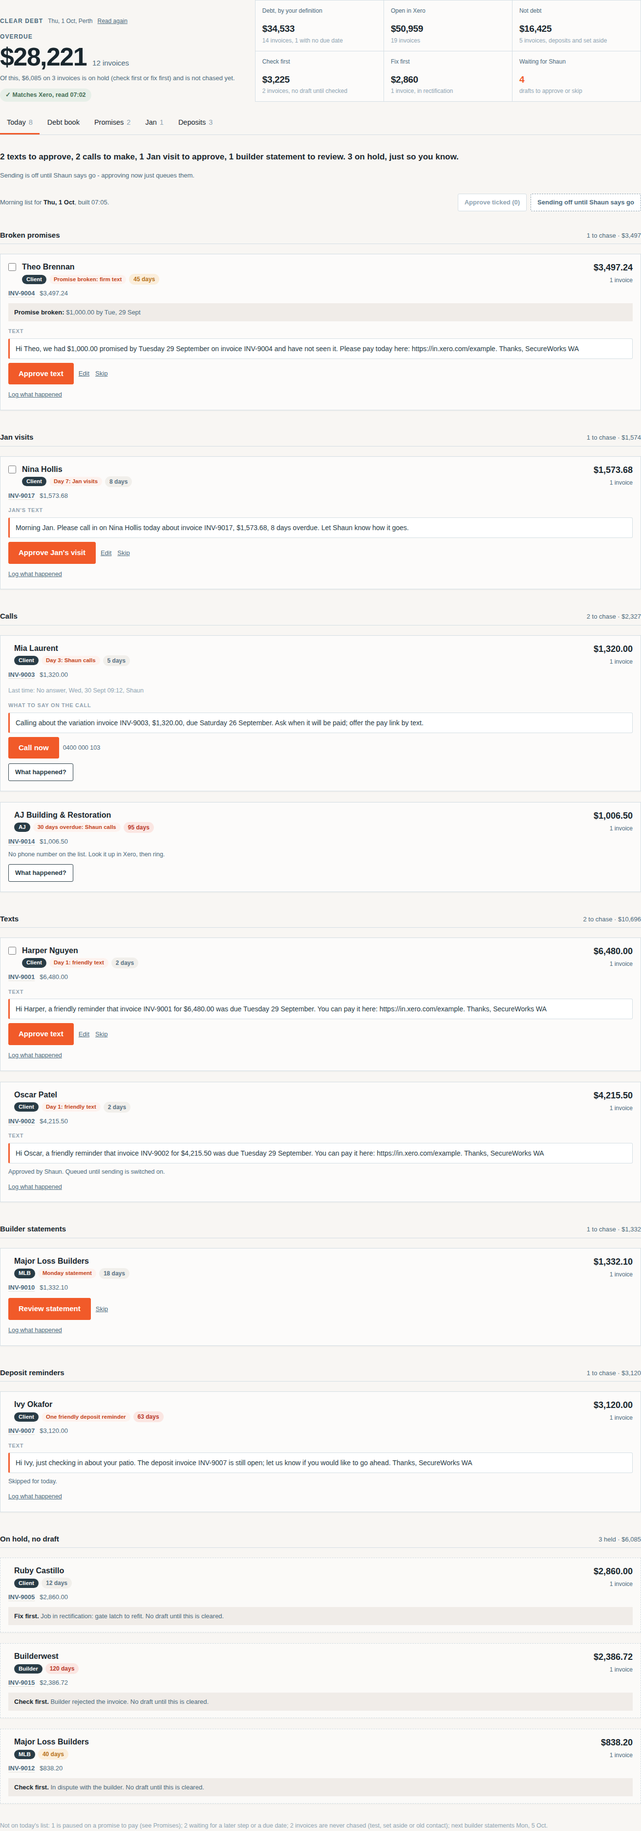
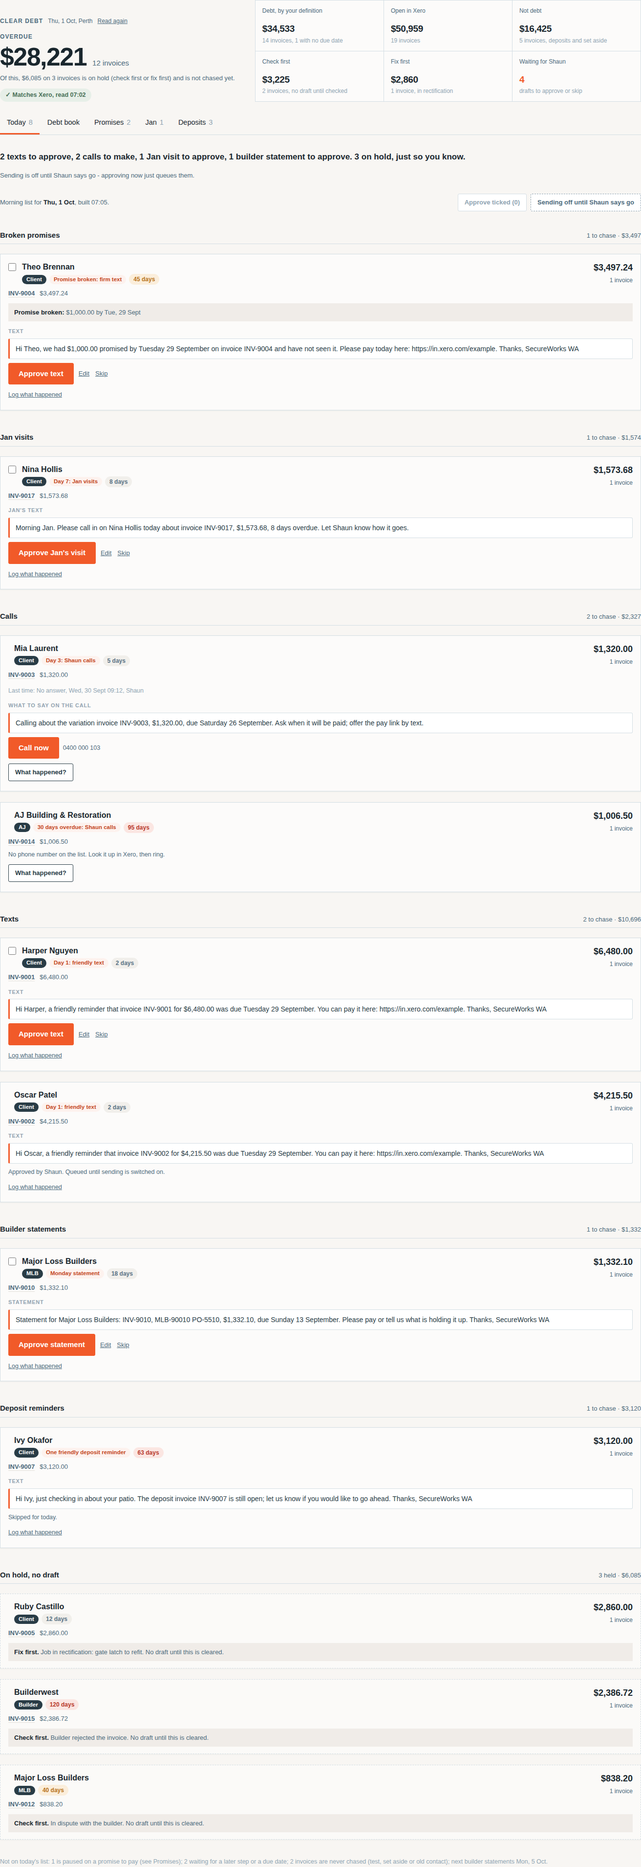
no-mistakes(review): One-button builder statements; keep typed outcome inputs on re-render

diff --git a/modules/ops-clear-debt-desk.js b/modules/ops-clear-debt-desk.js
@@ -140,7 +140,7 @@ var ClearDebtDeskCore = (function () {
   function outcomeScheduleStep(step) { return OUTCOME_STEPS.indexOf(step) >= 0 ? step : null; }
 
   // What one card asks of Shaun: one obvious button for its step, or nothing.
-  //   text, jan, reminder: approve the drafted message; statement: review it first;
+  //   text, jan, reminder, statement: approve the drafted message;
   //   call: ring, then say what happened; wait: no draft yet; done: already decided; held: information only.
   // A call script is help for the call, never approved, so calls are never waiting for a decision.
   var STEP_KIND = { friendly_text: 'text', firm_text: 'text', call: 'call', builder_call: 'call', jan_visit: 'jan', deposit_reminder: 'reminder', statement: 'statement' };
@@ -153,12 +153,9 @@ var ClearDebtDeskCore = (function () {
     if (k === 'call') return { kind: 'call', label: 'Call now' };
     if (!d) return { kind: 'wait', words: WAIT_WORDS };
     if (d.status !== 'pending') return { kind: 'done' };
-    if (k === 'statement') return { kind: k, label: 'Review statement', approve: APPROVE_LABEL.statement };
     return { kind: k, label: k === 'text' && d.channel === 'email' ? 'Approve email' : APPROVE_LABEL[k], approve: k === 'text' && d.channel === 'email' ? 'Approve email' : APPROVE_LABEL[k] };
   }
   function needsDecision(i) { var k = cardAction(i).kind; return k === 'text' || k === 'jan' || k === 'reminder' || k === 'statement'; }
-  // Ticking approves without opening the card, so a statement (review first) is never tickable.
-  function isTickable(i) { var k = cardAction(i).kind; return k === 'text' || k === 'jan' || k === 'reminder'; }
   function plural(n, one, many) { return n + ' ' + (n === 1 ? one : many); }
   // The one line at the top of Today: what there is to do, counted from the list.
   function todaySummary(items) {
@@ -169,7 +166,7 @@ var ClearDebtDeskCore = (function () {
     if (n.call) todo.push(plural(n.call, 'call', 'calls') + ' to make');
     if (n.jan) todo.push(plural(n.jan, 'Jan visit', 'Jan visits') + ' to approve');
     if (n.reminder) todo.push(plural(n.reminder, 'deposit reminder', 'deposit reminders') + ' to approve');
-    if (n.statement) todo.push(plural(n.statement, 'builder statement', 'builder statements') + ' to review');
+    if (n.statement) todo.push(plural(n.statement, 'builder statement', 'builder statements') + ' to approve');
     var line = todo.length ? todo.join(', ') + '.' : 'Nothing to do right now.';
     if (n.wait) line += ' ' + n.wait + ' waiting for a draft, nothing to do yet.';
     if (n.held) line += ' ' + n.held + ' on hold, just so you know.';
@@ -226,11 +223,11 @@ var ClearDebtDeskCore = (function () {
   }
   function isNotDeployed(e) { return !!e && (/unknown action/i.test(String(e.message || '')) || e.status === 404); }
 
-  return { SENDING_ON: SENDING_ON, SEND_LABEL: SEND_LABEL, GROUPS: GROUPS, OUTCOMES: OUTCOMES, OUTCOME_STEPS: OUTCOME_STEPS, PAYERS: PAYERS, AGES: AGES, perthDate: perthDate, daysPast: daysPast, ageBucket: ageBucket, bookTotals: bookTotals, money: money, money0: money0, perthTime: perthTime, stampText: stampText, newestStamp: newestStamp, sortMorning: sortMorning, isHeld: isHeld, chaseItems: chaseItems, heldItems: heldItems, waitingCount: waitingCount, janFromMorning: janFromMorning, janHeldFromMorning: janHeldFromMorning, outcomeScheduleStep: outcomeScheduleStep, cardAction: cardAction, needsDecision: needsDecision, isTickable: isTickable, todaySummary: todaySummary, WAIT_WORDS: WAIT_WORDS, sendButtonHtml: sendButtonHtml, outcomeProblem: outcomeProblem, promisesFromMorning: promisesFromMorning, anyDrafts: anyDrafts, sortPromises: sortPromises, depositsFromBook: depositsFromBook, isNotDeployed: isNotDeployed };
+  return { SENDING_ON: SENDING_ON, SEND_LABEL: SEND_LABEL, GROUPS: GROUPS, OUTCOMES: OUTCOMES, OUTCOME_STEPS: OUTCOME_STEPS, PAYERS: PAYERS, AGES: AGES, perthDate: perthDate, daysPast: daysPast, ageBucket: ageBucket, bookTotals: bookTotals, money: money, money0: money0, perthTime: perthTime, stampText: stampText, newestStamp: newestStamp, sortMorning: sortMorning, isHeld: isHeld, chaseItems: chaseItems, heldItems: heldItems, waitingCount: waitingCount, janFromMorning: janFromMorning, janHeldFromMorning: janHeldFromMorning, outcomeScheduleStep: outcomeScheduleStep, cardAction: cardAction, needsDecision: needsDecision, todaySummary: todaySummary, WAIT_WORDS: WAIT_WORDS, sendButtonHtml: sendButtonHtml, outcomeProblem: outcomeProblem, promisesFromMorning: promisesFromMorning, anyDrafts: anyDrafts, sortPromises: sortPromises, depositsFromBook: depositsFromBook, isNotDeployed: isNotDeployed };
 })();
 // </clear-debt-desk-core>
 
-var CDD = { tab: null, gen: 0, today: null, book: null, bookErr: null, morning: null, morningErr: null, edits: {}, ticked: {}, logged: {}, editing: {}, reviewing: {}, open: {}, promOpen: {} };
+var CDD = { tab: null, gen: 0, today: null, book: null, bookErr: null, morning: null, morningErr: null, edits: {}, ticked: {}, logged: {}, editing: {}, open: {}, promOpen: {}, outIn: {} };
 var CDD_TABS = [
   { key: 'today', label: 'Today' },
   { key: 'book', label: 'Debt book' },
@@ -326,7 +323,7 @@ async function loadClearDebt() {
   var res = await Promise.all(jobs);
   if (gen !== CDD.gen) return; // a newer read superseded this one
   CDD.book = null; CDD.bookErr = null; CDD.morning = null; CDD.morningErr = null;
-  CDD.ticked = {}; CDD.edits = {}; CDD.editing = {}; CDD.reviewing = {};
+  CDD.ticked = {}; CDD.edits = {}; CDD.editing = {};
   res.forEach(function (r) { Object.keys(r).forEach(function (k) { CDD[k] = r[k]; }); });
   CDD.loading = false;
   cddRender();
@@ -439,7 +436,7 @@ function cddGroupHead(key, label, list) {
 }
 function cddHeldHtml(held) { return held.length ? cddGroupHead('hold', 'On hold, no draft', held) + held.map(cddItemHtml).join('') : ''; }
 function cddItemHtml(it) {
-  var C = ClearDebtDeskCore, d = it.draft, held = C.isHeld(it), act = C.cardAction(it), tickable = C.isTickable(it);
+  var C = ClearDebtDeskCore, d = it.draft, held = C.isHeld(it), act = C.cardAction(it), tickable = C.needsDecision(it);
   var invs = (it.invoices || []).map(function (x) { return x.xero_invoice_id ? cddXero(x.xero_invoice_id, x.invoice_number) + ' <span class="cd-num">' + C.money(x.amount_due) + '</span>' : cddEsc(x.invoice_number); }).join(' · ');
   var sub = '<span class="cdd-chip dark">' + cddEsc(CDD_PAYER_LABEL[it.payer] || it.payer || 'Other') + '</span>' + (it.step_label && !held ? '<span class="cdd-chip step">' + cddEsc(it.step_label) + '</span>' : '') + cddAgePill(it.days_overdue === undefined ? null : it.days_overdue);
   var h = '<div class="cdd-item' + (held ? ' hold' : '') + '" data-cdd-item="' + cddEsc(it.id) + '" data-cdd-kind="' + act.kind + '"><div class="cdd-top">' +
@@ -476,10 +473,6 @@ function cddDraftHtml(d, act) {
     var status = { approved: 'Approved' + (d.approved_by ? ' by ' + d.approved_by : '') + '. Queued until sending is switched on.', skipped: 'Skipped for today.', sent: 'Sent.' }[d.status] || d.status;
     return h + '<div class="cd-k" style="margin-bottom:6px">' + cddEsc(channel) + '</div>' + cddMsgHtml(text) + '<div class="cdd-acts"><span class="st" data-cdd-said>' + cddEsc(status) + '</span></div></div>';
   }
-  // A statement is read before it can be approved: its first button only opens it.
-  if (act.kind === 'statement' && !CDD.reviewing[d.id] && !CDD.editing[d.id]) {
-    return h + '<div class="cdd-acts"><button class="cdd-btn o big" data-cdd-primary onclick="cddReview(this)">Review statement</button><button class="cdd-link sm" onclick="cddDecide(this,\'skip\')">Skip</button><span class="st" data-cdd-said></span></div></div>';
-  }
   var editing = !!CDD.editing[d.id] || CDD.edits[d.id] != null;
   h += '<div class="cd-k" style="margin-bottom:6px">' + cddEsc(channel) + '</div>' +
     (editing ? '<textarea rows="3" oninput="cddEdit(this)" aria-label="' + cddEsc(channel) + ' draft">' + cddEsc(text) + '</textarea>' : cddMsgHtml(text));
@@ -505,7 +498,7 @@ function cddOutcomeLabel(code) { var o = ClearDebtDeskCore.OUTCOMES.filter(funct
 // link ("What happened?" as a button on a call card). The promise box opens only on Promised.
 // Shared with the Debt book payer record.
 function cddOutcomeHtml(o) {
-  var k = o.key || 'x', key = cddEsc(k), said = CDD.logged[k], prom = !!CDD.promOpen[k];
+  var k = o.key || 'x', key = cddEsc(k), said = CDD.logged[k], prom = !!CDD.promOpen[k], typed = CDD.outIn[k] || {};
   var btns = ClearDebtDeskCore.OUTCOMES.map(function (x) {
     return x.code === 'promised'
       ? '<button type="button" data-cdd-promised aria-expanded="' + prom + '" onclick="cddPromiseOpen(this)">' + x.label + '</button>'
@@ -514,8 +507,8 @@ function cddOutcomeHtml(o) {
   return '<div class="cdd-out" data-cdd-out="' + key + '" data-payer="' + cddEsc(o.payer_key || '') + '" data-ids="' + cddEsc((o.ids || []).join(',')) + '" data-step="' + cddEsc(o.step || '') + '">' +
     '<details' + (CDD.open[k] ? ' open' : '') + ' ontoggle="cddLogToggle(this)"><summary class="' + (o.call ? 'cdd-btn l' : 'cdd-logl') + '">' + (o.call ? 'What happened?' : 'Log what happened') + '</summary>' +
     '<div class="cdd-outin"><span class="cdd-obtns">' + btns + '</span>' +
-    '<span class="cdd-prom"' + (prom ? '' : ' hidden') + '>Promised $<input type="number" min="0" step="0.01" inputmode="decimal" aria-label="Promised amount" data-prom-amount> by <input type="date" aria-label="Promised date" data-prom-date><span class="cdd-obtns"><button type="button" data-outcome="promised" onclick="cddOutcome(this,\'promised\')">Save promise</button></span></span>' +
-    '<input class="cdd-note" type="text" placeholder="Note (optional)" aria-label="Note" data-out-note></div></details>' +
+    '<span class="cdd-prom"' + (prom ? '' : ' hidden') + '>Promised $<input type="number" min="0" step="0.01" inputmode="decimal" aria-label="Promised amount" data-prom-amount value="' + cddEsc(typed.amount || '') + '" oninput="cddOutIn(this)"> by <input type="date" aria-label="Promised date" data-prom-date value="' + cddEsc(typed.date || '') + '" oninput="cddOutIn(this)"><span class="cdd-obtns"><button type="button" data-outcome="promised" onclick="cddOutcome(this,\'promised\')">Save promise</button></span></span>' +
+    '<input class="cdd-note" type="text" placeholder="Note (optional)" aria-label="Note" data-out-note value="' + cddEsc(typed.note || '') + '" oninput="cddOutIn(this)"></div></details>' +
     '<span class="cdd-said' + (said && said.bad ? ' bad' : '') + '" data-cdd-said>' + cddEsc(said ? said.text : '') + '</span></div>';
 }
 
@@ -527,7 +520,11 @@ function cddEditOpen(btn) {
   CDD.editing[id] = true; cddRender();
   var again = cddDraftBox(id), ta = again && again.querySelector('textarea'); if (ta) ta.focus();
 }
-function cddReview(btn) { var box = btn.closest('[data-draft]'), id = box && box.getAttribute('data-draft'); if (!id) return; CDD.reviewing[id] = true; cddRender(); }
+function cddOutIn(el) {
+  var box = el.closest('[data-cdd-out]'); if (!box) return;
+  var v = function (sel) { return (box.querySelector(sel) || {}).value || ''; };
+  CDD.outIn[box.getAttribute('data-cdd-out')] = { amount: v('[data-prom-amount]'), date: v('[data-prom-date]'), note: v('[data-out-note]') };
+}
 function cddLogToggle(el) { var box = el.closest('[data-cdd-out]'); if (box) CDD.open[box.getAttribute('data-cdd-out')] = el.open; }
 function cddPromiseOpen(btn) {
   var box = btn.closest('[data-cdd-out]'), prom = box && box.querySelector('.cdd-prom'); if (!prom) return;
@@ -544,7 +541,7 @@ async function cddDecideOne(id, decision) {
   if (decision === 'approve' && /\u2014/.test(text || '')) throw new Error('remove the em dash first');
   var res = await opsPost('debt_draft_decide', { draft_id: id, decision: decision, text: text, xero_invoice_ids: (it.invoices || []).map(function (x) { return x.xero_invoice_id; }) });
   it.draft = (res && res.draft) || Object.assign({}, it.draft, { status: decision === 'approve' ? 'approved' : 'skipped', text: text });
-  delete CDD.edits[id]; delete CDD.ticked[id]; delete CDD.editing[id]; delete CDD.reviewing[id];
+  delete CDD.edits[id]; delete CDD.ticked[id]; delete CDD.editing[id];
 }
 function cddDecideError(e) { return ClearDebtDeskCore.isNotDeployed(e) ? 'Approving is not live yet. Nothing was saved.' : 'Not saved: ' + e.message; }
 async function cddDecide(btn, decision) {
@@ -576,7 +573,8 @@ async function cddOutcome(btn, code) {
     await opsPost('debt_log_outcome', body);
     CDD.logged[key] = { text: 'Logged: ' + cddOutcomeLabel(code) + (code === 'promised' ? ' ' + ClearDebtDeskCore.money(o.amount) + ' by ' + cddDateWords(o.date) : '') + ', ' + ClearDebtDeskCore.perthTime(new Date().toISOString()) };
     said.className = 'cdd-said'; said.textContent = CDD.logged[key].text;
-    var n = box.querySelector('[data-out-note]'); if (n) n.value = '';
+    delete CDD.outIn[key];
+    box.querySelectorAll('[data-prom-amount], [data-prom-date], [data-out-note]').forEach(function (el) { el.value = ''; });
   } catch (e) {
     said.className = 'cdd-said bad';
     said.textContent = ClearDebtDeskCore.isNotDeployed(e) ? 'Logging what happened is not live yet. Nothing was saved; use Add note for now.' : 'Not saved: ' + e.message;

diff --git a/tests/e2e/ops-clear-debt-desk.spec.js b/tests/e2e/ops-clear-debt-desk.spec.js
@@ -12,7 +12,7 @@
 //    send button (desk drafts and the Debt book payer record) is disabled, reads "Sending off
 //    until Shaun says go" and carries no handler.
 //  - Each card has ONE obvious button for its step (Approve text, Call now, Approve Jan's visit,
-//    Approve reminder, Review statement); no draft yet reads "Draft coming - nothing to do yet"
+//    Approve reminder, Approve statement); no draft yet reads "Draft coming - nothing to do yet"
 //    with no button; held cards have nothing to press. A line at the top of Today counts the
 //    work and says sending is off, so approving only queues.
 //  - Outcome buttons, the promise box and the note sit behind "Log what happened" ("What
@@ -147,7 +147,7 @@ test('Today: groups in chase order, held payers last with no draft, send is off 
 
 test('Today opens with one line of what to do, and says sending is off so approving only queues', async ({ page }) => {
   await openDesk(page);
-  await expect(page.locator('#cddTodo')).toHaveText('2 texts to approve, 2 calls to make, 1 Jan visit to approve, 1 builder statement to review. 3 on hold, just so you know.');
+  await expect(page.locator('#cddTodo')).toHaveText('2 texts to approve, 2 calls to make, 1 Jan visit to approve, 1 builder statement to approve. 3 on hold, just so you know.');
   await expect(page.locator('#cddSendingOff')).toHaveText('Sending is off until Shaun says go - approving now just queues them.');
 });
 
@@ -158,7 +158,7 @@ test('each card shows one obvious button for its step, with everything else fold
   expect(await primary('Theo Brennan')).toEqual(['Approve text']);
   expect(await primary('Mia Laurent')).toEqual(['Call now']);
   expect(await primary('Nina Hollis')).toEqual(["Approve Jan's visit"]);
-  expect(await primary('Major Loss Builders')).toEqual(['Review statement']);
+  expect(await primary('Major Loss Builders')).toEqual(['Approve statement']);
   expect(await primary('Oscar Patel')).toEqual([]); // already approved
   expect(await primary('Ivy Okafor')).toEqual([]); // already skipped
   await expect(card(page, 'Mia Laurent').locator('a[data-cdd-primary]')).toHaveAttribute('href', 'tel:0400000103');
@@ -179,12 +179,11 @@ test('each card shows one obvious button for its step, with everything else fold
   await shotDesk(page, '09-one-button-cards.png', '#clearDebtCards');
 });
 
-test('a builder statement is reviewed before it can be approved', async ({ page }) => {
+test('a builder statement shows its text above one Approve statement button', async ({ page }) => {
   await openDesk(page);
   const mlb = card(page, 'Major Loss Builders');
-  await expect(mlb.locator('.cdd-msg')).toHaveCount(0);
-  await mlb.getByRole('button', { name: 'Review statement' }).click();
   await expect(mlb.locator('.cdd-msg')).toContainText('Statement for Major Loss Builders');
+  await expect(mlb.locator('button.cdd-link.sm')).toHaveText(['Edit', 'Skip']);
   await mlb.getByRole('button', { name: 'Approve statement' }).click();
   await expect(mlb).toContainText('Approved by ops-e2e');
   const post = await page.evaluate(() => window.__cddPosts.find((p) => p.action === 'debt_draft_decide'));
@@ -199,14 +198,15 @@ test('approve a draft, then approve ticked in one go', async ({ page }) => {
   await harper.getByRole('button', { name: 'Approve text', exact: true }).click();
   await expect(harper).toContainText('Approved by ops-e2e');
   await expect(card(page, 'Mia Laurent').locator('input[type=checkbox]')).toHaveCount(0); // a call is not ticked
-  await expect(card(page, 'Major Loss Builders').locator('input[type=checkbox]')).toHaveCount(0); // a statement is reviewed first
   await card(page, 'Theo Brennan').locator('input[type=checkbox]').check();
   await card(page, 'Nina Hollis').locator('input[type=checkbox]').check();
+  await card(page, 'Major Loss Builders').locator('input[type=checkbox]').check();
   await page.locator('#cddApproveTicked').click();
   await expect(card(page, 'Theo Brennan')).toContainText('Approved');
   await expect(card(page, 'Nina Hollis')).toContainText('Approved');
+  await expect(card(page, 'Major Loss Builders')).toContainText('Approved');
   const posts = await page.evaluate(() => window.__cddPosts);
-  expect(posts.map((p) => p.action)).toEqual(['debt_draft_decide', 'debt_draft_decide', 'debt_draft_decide']);
+  expect(posts.map((p) => p.action)).toEqual(['debt_draft_decide', 'debt_draft_decide', 'debt_draft_decide', 'debt_draft_decide']);
   expect(posts[0].body).toMatchObject({ draft_id: 'draft-harper', decision: 'approve', text: 'Hi Harper, a friendly reminder about INV-9001. Thanks, SecureWorks WA' });
 });
 
@@ -232,6 +232,30 @@ test('outcome buttons and the promise box log against the payer\'s invoices', as
   expect(posts[0].body).toMatchObject({ outcome_code: 'promised', promised_amount: 500, promised_date: today, channel: 'call', schedule_step: 'call', xero_invoice_ids: [fixture.debt_book.invoices[2].xero_invoice_id] });
   expect(posts[1].body.outcome_code).toBe('no_answer');
   expect(posts[1].body.schedule_step).toBe('call');
+});
+
+test('a typed note and promise survive another card repainting the list, and clear once logged', async ({ page }) => {
+  await openDesk(page);
+  const harper = card(page, 'Harper Nguyen');
+  await harper.getByText('Log what happened').click();
+  await harper.getByRole('button', { name: 'Promised', exact: true }).click();
+  const today = new Intl.DateTimeFormat('en-CA', { timeZone: 'Australia/Perth' }).format(new Date());
+  await harper.getByLabel('Promised amount').fill('250');
+  await harper.getByLabel('Promised date').fill(today);
+  await harper.getByLabel('Note').fill('Paying Friday');
+  await card(page, 'Theo Brennan').getByRole('button', { name: 'Edit', exact: true }).click();
+  await expect(card(page, 'Theo Brennan').locator('textarea')).toBeVisible();
+  await expect(harper.getByLabel('Note')).toHaveValue('Paying Friday');
+  await expect(harper.getByLabel('Promised amount')).toHaveValue('250');
+  await expect(harper.getByLabel('Promised date')).toHaveValue(today);
+  await harper.getByRole('button', { name: 'Save promise' }).click();
+  await expect(harper.locator('.cdd-out [data-cdd-said]')).toContainText('Logged: Promised $250.00');
+  const post = await page.evaluate(() => window.__cddPosts.find((p) => p.action === 'debt_log_outcome'));
+  expect(post.body).toMatchObject({ outcome_code: 'promised', promised_amount: 250, promised_date: today, note: 'Paying Friday' });
+  await card(page, 'Theo Brennan').getByRole('button', { name: 'Skip', exact: true }).click();
+  await expect(card(page, 'Theo Brennan')).toContainText('Skipped for today.');
+  await expect(harper.getByLabel('Note')).toHaveValue('');
+  await expect(harper.getByLabel('Promised amount')).toHaveValue('');
 });
 
 test('an outcome on a text card logs no schedule_step, so the unsent text is not marked done', async ({ page }) => {

diff --git a/scripts/test-clear-debt-desk.js b/scripts/test-clear-debt-desk.js
@@ -140,7 +140,7 @@ check('each card has one obvious button for its step', () => {
   assert.strictEqual(act({ step: 'builder_call' }).label, 'Call now', 'a call needs no draft');
   assert.strictEqual(act({ step: 'jan_visit', draft: pend() }).label, "Approve Jan's visit");
   assert.strictEqual(act({ step: 'deposit_reminder', draft: pend() }).label, 'Approve reminder');
-  assert.deepStrictEqual([act({ step: 'statement', draft: pend('email') }).label, act({ step: 'statement', draft: pend('email') }).approve], ['Review statement', 'Approve statement']);
+  assert.deepStrictEqual([act({ step: 'statement', draft: pend('email') }).label, act({ step: 'statement', draft: pend('email') }).approve], ['Approve statement', 'Approve statement']);
   assert.strictEqual(act({ group: 'broken_promise', step: 'jan_visit', draft: pend() }).kind, 'jan', 'a broken promise follows its step');
 });
 check('no draft yet says so plainly and offers no button; a decided draft offers none; held cards are information only', () => {
@@ -152,13 +152,14 @@ check('no draft yet says so plainly and offers no button; a decided draft offers
   assert.strictEqual(C.cardAction({ group: 'hold', step: null, hold: 'check_first' }).kind, 'held');
   assert.strictEqual(C.cardAction({ step: 'friendly_text', hold: 'fix_first', draft: { id: 'd', status: 'pending' } }).kind, 'held');
 });
-check('only drafts approvable without opening can be ticked: never a statement, a call or a hold', () => {
+check('pending texts, Jan visits, reminders and statements wait on a decision; never a call or a hold', () => {
   const pend = { id: 'd', status: 'pending', channel: 'sms' };
-  assert.strictEqual(C.isTickable({ step: 'friendly_text', draft: pend }), true);
-  assert.strictEqual(C.isTickable({ step: 'jan_visit', draft: pend }), true);
-  assert.strictEqual(C.isTickable({ step: 'statement', draft: pend }), false);
-  assert.strictEqual(C.isTickable({ step: 'call', draft: pend }), false);
-  assert.strictEqual(C.isTickable({ step: 'friendly_text', hold: 'check_first', draft: pend }), false);
+  assert.strictEqual(C.needsDecision({ step: 'friendly_text', draft: pend }), true);
+  assert.strictEqual(C.needsDecision({ step: 'jan_visit', draft: pend }), true);
+  assert.strictEqual(C.needsDecision({ step: 'deposit_reminder', draft: pend }), true);
+  assert.strictEqual(C.needsDecision({ step: 'statement', draft: pend }), true);
+  assert.strictEqual(C.needsDecision({ step: 'call', draft: pend }), false);
+  assert.strictEqual(C.needsDecision({ step: 'friendly_text', hold: 'check_first', draft: pend }), false);
 });
 check('the line at the top of Today counts what there is to do', () => {
   const pend = { id: 'd', status: 'pending', channel: 'sms' };
@@ -169,7 +170,7 @@ check('the line at the top of Today counts what there is to do', () => {
     { group: 'hold', step: null, hold: 'check_first' },
   ];
   assert.strictEqual(C.todaySummary(list), '4 texts to approve, 2 calls to make, 1 Jan visit to approve. 1 waiting for a draft, nothing to do yet. 1 on hold, just so you know.');
-  assert.strictEqual(C.todaySummary([{ step: 'deposit_reminder', draft: pend }, { step: 'statement', draft: pend }]), '1 deposit reminder to approve, 1 builder statement to review.');
+  assert.strictEqual(C.todaySummary([{ step: 'deposit_reminder', draft: pend }, { step: 'statement', draft: pend }]), '1 deposit reminder to approve, 1 builder statement to approve.');
   assert.strictEqual(C.todaySummary([]), 'Nothing to do right now.');
 });
 check('Jan tab takes every chased item at the Jan visit step; held payers whose held_step is the Jan visit are listed apart', () => {

diff --git a/docs/clear-debt-desk.md b/docs/clear-debt-desk.md
@@ -9,7 +9,7 @@ Ops > Financials > Clear Debt. `modules/ops-clear-debt-desk.js` owns the header,
 **Tabs.** Today (first, the default) | Debt book | Promises | Jan | Deposits. The last tab picked is kept per browser in `localStorage.sw_cd_tab`.
 
 - **Today** is the morning list in this order: broken promises, Jan visits, calls, texts, builder statements, deposit reminders. Inside a group, bigger amounts come first, then older. The backend's own hold items (`group: "hold"`, `step: null`) and any item carrying a `hold` are held payers: (check first, fix first) they come last in their own **On hold, no draft** section with their reason, and their "Fix first: ..." step label is not repeated as a chip: never drafted (even if the backend sends a draft), never tickable, never counted in waiting for Shaun, never approved, and nothing to press: a held card is information only. Ticks and edits are cleared whenever the list is read again, and only a draft still pending on the list on screen can be approved or skipped. One line under the list names what it is not showing: payers paused on a promise (`paused`), payers waiting for a later step or a due date (`waiting`), invoices never chased (`not_chased`), and the next builder statement day (`next_statement_date`, or today when `is_statement_day`).
-- **The line at the top of Today** says what there is to do, counted from the list (`ClearDebtDeskCore.todaySummary`), e.g. "2 texts to approve, 2 calls to make, 1 Jan visit to approve, 1 builder statement to review. 3 on hold, just so you know." Cards with no draft yet are counted as "waiting for a draft, nothing to do yet". While sending is off a second line says **Sending is off until Shaun says go - approving now just queues them.**
+- **The line at the top of Today** says what there is to do, counted from the list (`ClearDebtDeskCore.todaySummary`), e.g. "2 texts to approve, 2 calls to make, 1 Jan visit to approve, 1 builder statement to approve. 3 on hold, just so you know." Cards with no draft yet are counted as "waiting for a draft, nothing to do yet". While sending is off a second line says **Sending is off until Shaun says go - approving now just queues them.**
 - **One button per card.** Each Today and Jan card shows one obvious button for its step (`ClearDebtDeskCore.cardAction`, by `step`, else `group`):
 
   | Step | Button | Around it |
@@ -18,16 +18,16 @@ Ops > Financials > Clear Debt. `modules/ops-clear-debt-desk.js` owns the header,
   | `call`, `builder_call` | **Call now** (a `tel:` link to the item's `phone`) | The call script, if sent, as "What to say on the call"; then **What happened?** opening the choices below. No phone: says so, no button |
   | `jan_visit` | **Approve Jan's visit** | Jan's text above it; Edit and Skip |
   | `deposit_reminder` | **Approve reminder** | The reminder above it; Edit and Skip |
-  | `statement` | **Review statement**, which opens it, then **Approve statement** | Edit and Skip |
+  | `statement` | **Approve statement** | The statement above it; Edit and Skip |
 
-  A step whose draft has not arrived (step 2 sends none) says **Draft coming - nothing to do yet** and has no button; a call needs no draft. A draft already approved, skipped or sent shows its words and its status, no button. A call script is help for the call, not a message, so it is never approved, ticked or counted in waiting for Shaun. Only texts, Jan's text and deposit reminders can be ticked for **Approve ticked**; a statement is read first.
+  A step whose draft has not arrived (step 2 sends none) says **Draft coming - nothing to do yet** and has no button; a call needs no draft. A draft already approved, skipped or sent shows its words and its status, no button. A call script is help for the call, not a message, so it is never approved, ticked or counted in waiting for Shaun. Texts, Jan's text, deposit reminders and statements can be ticked for **Approve ticked**.
 - **Sending is off everywhere on this screen** until the old automatic money texts are switched off and Shaun says start sending. The desk drafts' send button and the Debt book payer record's Send text and Send invoice email buttons are all disabled, carry no handler and read **Sending off until Shaun says go**; the payer record's send functions refuse too. One switch, `ClearDebtDeskCore.SENDING_ON`, turns them on in a later reviewed PR. Add note and the outcome buttons still work.
 - **Debt book** holds the existing bar and payer groups (our copy, `list_debt_picture`) and, when the live book is read, the debt split by payer and by age.
 - **Promises** lists promises to pay from the morning list: broken ones ride on their item, open ones come from `paused[]` with the day chasing resumes. Broken first, then open, then kept. A promise with no amount says so.
 - **Jan** lists the payers at the day-7 Jan visit step (`step: jan_visit`, in any group, so a broken promise due a Jan visit is on it too), then below them any held payer whose `held_step` is `jan_visit`, with their reason and no draft.
 - **Deposits** lists a client's unpaid deposits and other before-work invoices from the live book: `payer: "client"`, not debt, and `kind: "deposit"` or `not_debt_reason: "before_first_payment"` (the backend's own deposit rule). Those the morning list names in `not_chased` (matched by invoice number: late-made deposits matching a transfer already received, a likely duplicate, leftover cents) are left out of the total and the 60-day pill and shown apart below the table with the list's reason. When the morning list is not read, nothing can be set apart, so the tab says the total may include those invoices and hides the 60-day pills until it is read. They are not debt.
 
-**What happened.** Every Today item that is not held, and the Debt book payer record, carry the outcome buttons (No answer, Spoke, Promised, Disputed, Says paid) and a note, folded away behind a small **Log what happened** link (on a call card, the **What happened?** button). The promise box ($ amount and a date, with Save promise) appears only after Promised is pressed. Promised needs both. The screen never shows the words payer, step or outcome code. An outcome carries a `schedule_step` only when the card's step is one a person carries out when pressing it: `call`, `builder_call` or `jan_visit`. Text, statement and deposit-reminder cards, and the Debt book payer record, log the outcome with `schedule_step: null`, so a call outcome never marks an unsent text or statement as done; the send itself stamps those steps. An outcome is logged against the card's Xero invoice ids with the morning list's `payer_key`; the Debt book payer record looks that key up from the list by invoice id, so MLB logs as `mlb`, not a contact id.
+**What happened.** Every Today item that is not held, and the Debt book payer record, carry the outcome buttons (No answer, Spoke, Promised, Disputed, Says paid) and a note, folded away behind a small **Log what happened** link (on a call card, the **What happened?** button). The promise box ($ amount and a date, with Save promise) appears only after Promised is pressed. Promised needs both. A typed amount, date and note are kept while other cards are edited or decided, and cleared once logged. The screen never shows the words payer, step or outcome code. An outcome carries a `schedule_step` only when the card's step is one a person carries out when pressing it: `call`, `builder_call` or `jan_visit`. Text, statement and deposit-reminder cards, and the Debt book payer record, log the outcome with `schedule_step: null`, so a call outcome never marks an unsent text or statement as done; the send itself stamps those steps. An outcome is logged against the card's Xero invoice ids with the morning list's `payer_key`; the Debt book payer record looks that key up from the list by invoice id, so MLB logs as `mlb`, not a contact id.
 
 **Display rules (B17).** Ages count Perth calendar days, never UTC. An invoice with no due date sits in its own **No due date** bucket, never "not due" and never 90+. "Refreshed" shows the newest stamp. Overdue counts debt only: deposits, not owed and set-aside invoices never inflate it.
 
